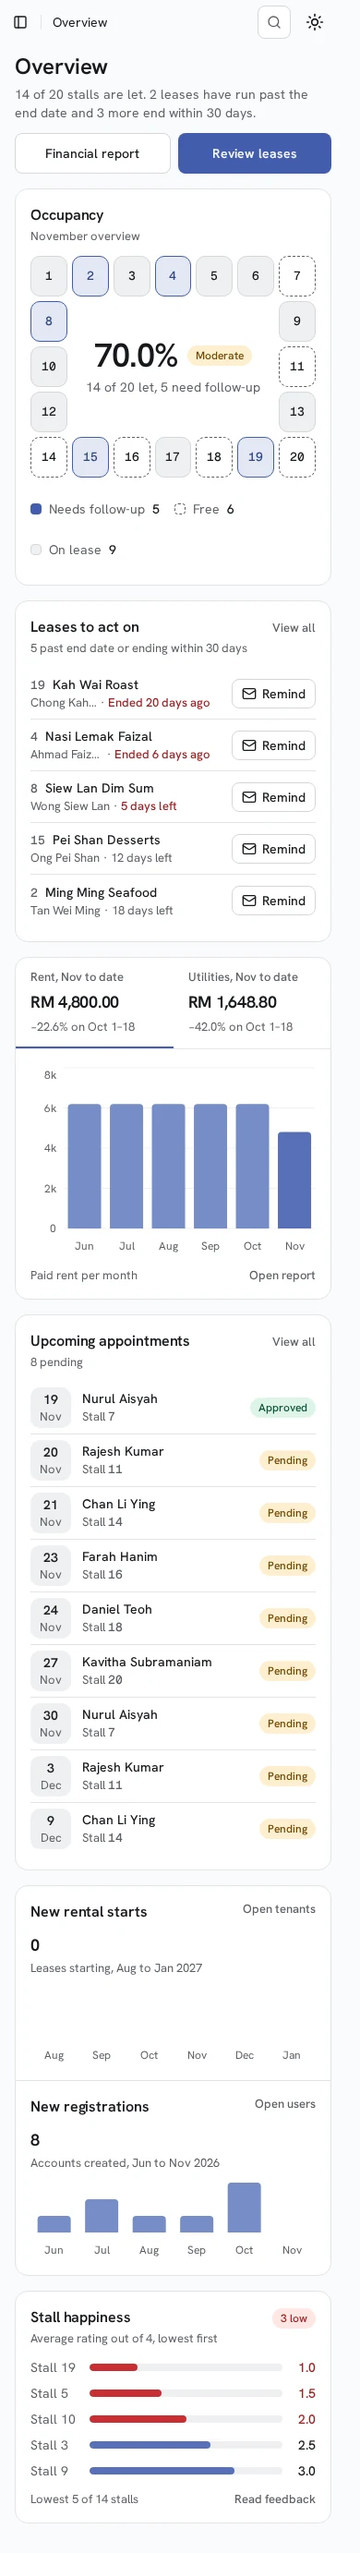
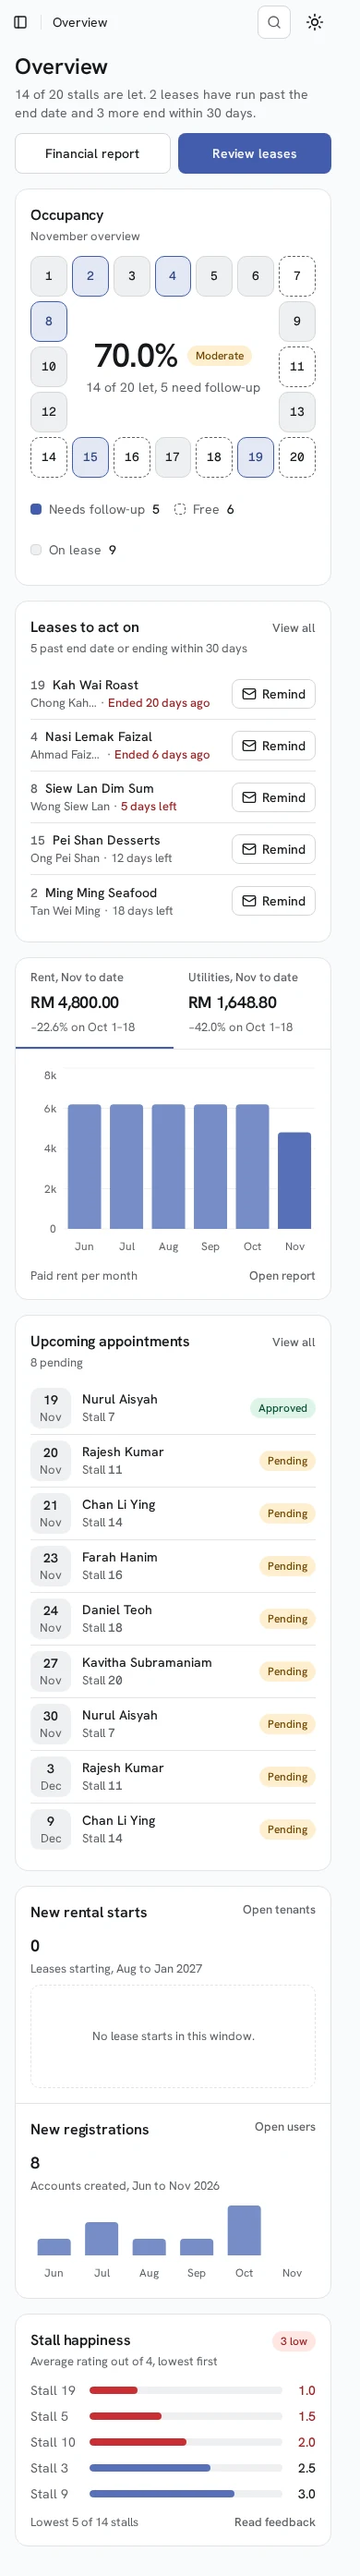
fix(ui): say so when a growth trend has nothing in its window
A zero-count trend drew an empty axis. Show one dashed line of text at the
chart's height instead, so the two halves of the panel stay level.

diff --git a/fc-front/src/pages/dashboard/functionPage/admin/components/GrowthPanel.tsx b/fc-front/src/pages/dashboard/functionPage/admin/components/GrowthPanel.tsx
@@ -27,8 +27,10 @@ function Trend({
   to,
   series,
   color,
+  empty,
 }: {
   title: string
+  empty: string
   total: number
   note: string
   link: string
@@ -48,18 +50,24 @@ function Trend({
         <p className="type-figure">{total}</p>
         <p className="type-meta text-muted-foreground">{note}</p>
       </div>
-      <ColumnChart
-        bare
-        data={series}
-        series={[{ key: 'value', label: title, color }]}
-        colorOf={(point) =>
-          point.label === format(new Date(), 'MMM')
-            ? color
-            : 'var(--chart-1-soft)'
-        }
-        height={88}
-        ticks={[0, Math.max(1, ...series.map((point) => point.value))]}
-      />
+      {total === 0 ? (
+        <p className="type-meta text-muted-foreground grid min-h-28 place-items-center rounded-lg border border-dashed px-4 text-center">
+          {empty}
+        </p>
+      ) : (
+        <ColumnChart
+          bare
+          data={series}
+          series={[{ key: 'value', label: title, color }]}
+          colorOf={(point) =>
+            point.label === format(new Date(), 'MMM')
+              ? color
+              : 'var(--chart-1-soft)'
+          }
+          height={88}
+          ticks={[0, Math.max(1, ...series.map((point) => point.value))]}
+        />
+      )}
     </div>
   )
 }
@@ -129,6 +137,7 @@ export default function GrowthPanel({ className }: { className?: string }) {
         to="/dashboard/tenant-information"
         series={starts}
         color="var(--chart-1)"
+        empty="No lease starts in this window."
       />
       <Trend
         title="New registrations"
@@ -138,6 +147,7 @@ export default function GrowthPanel({ className }: { className?: string }) {
         to="/dashboard/admin"
         series={signups}
         color="var(--chart-1)"
+        empty="No new accounts in this window."
       />
     </Panel>
   )
